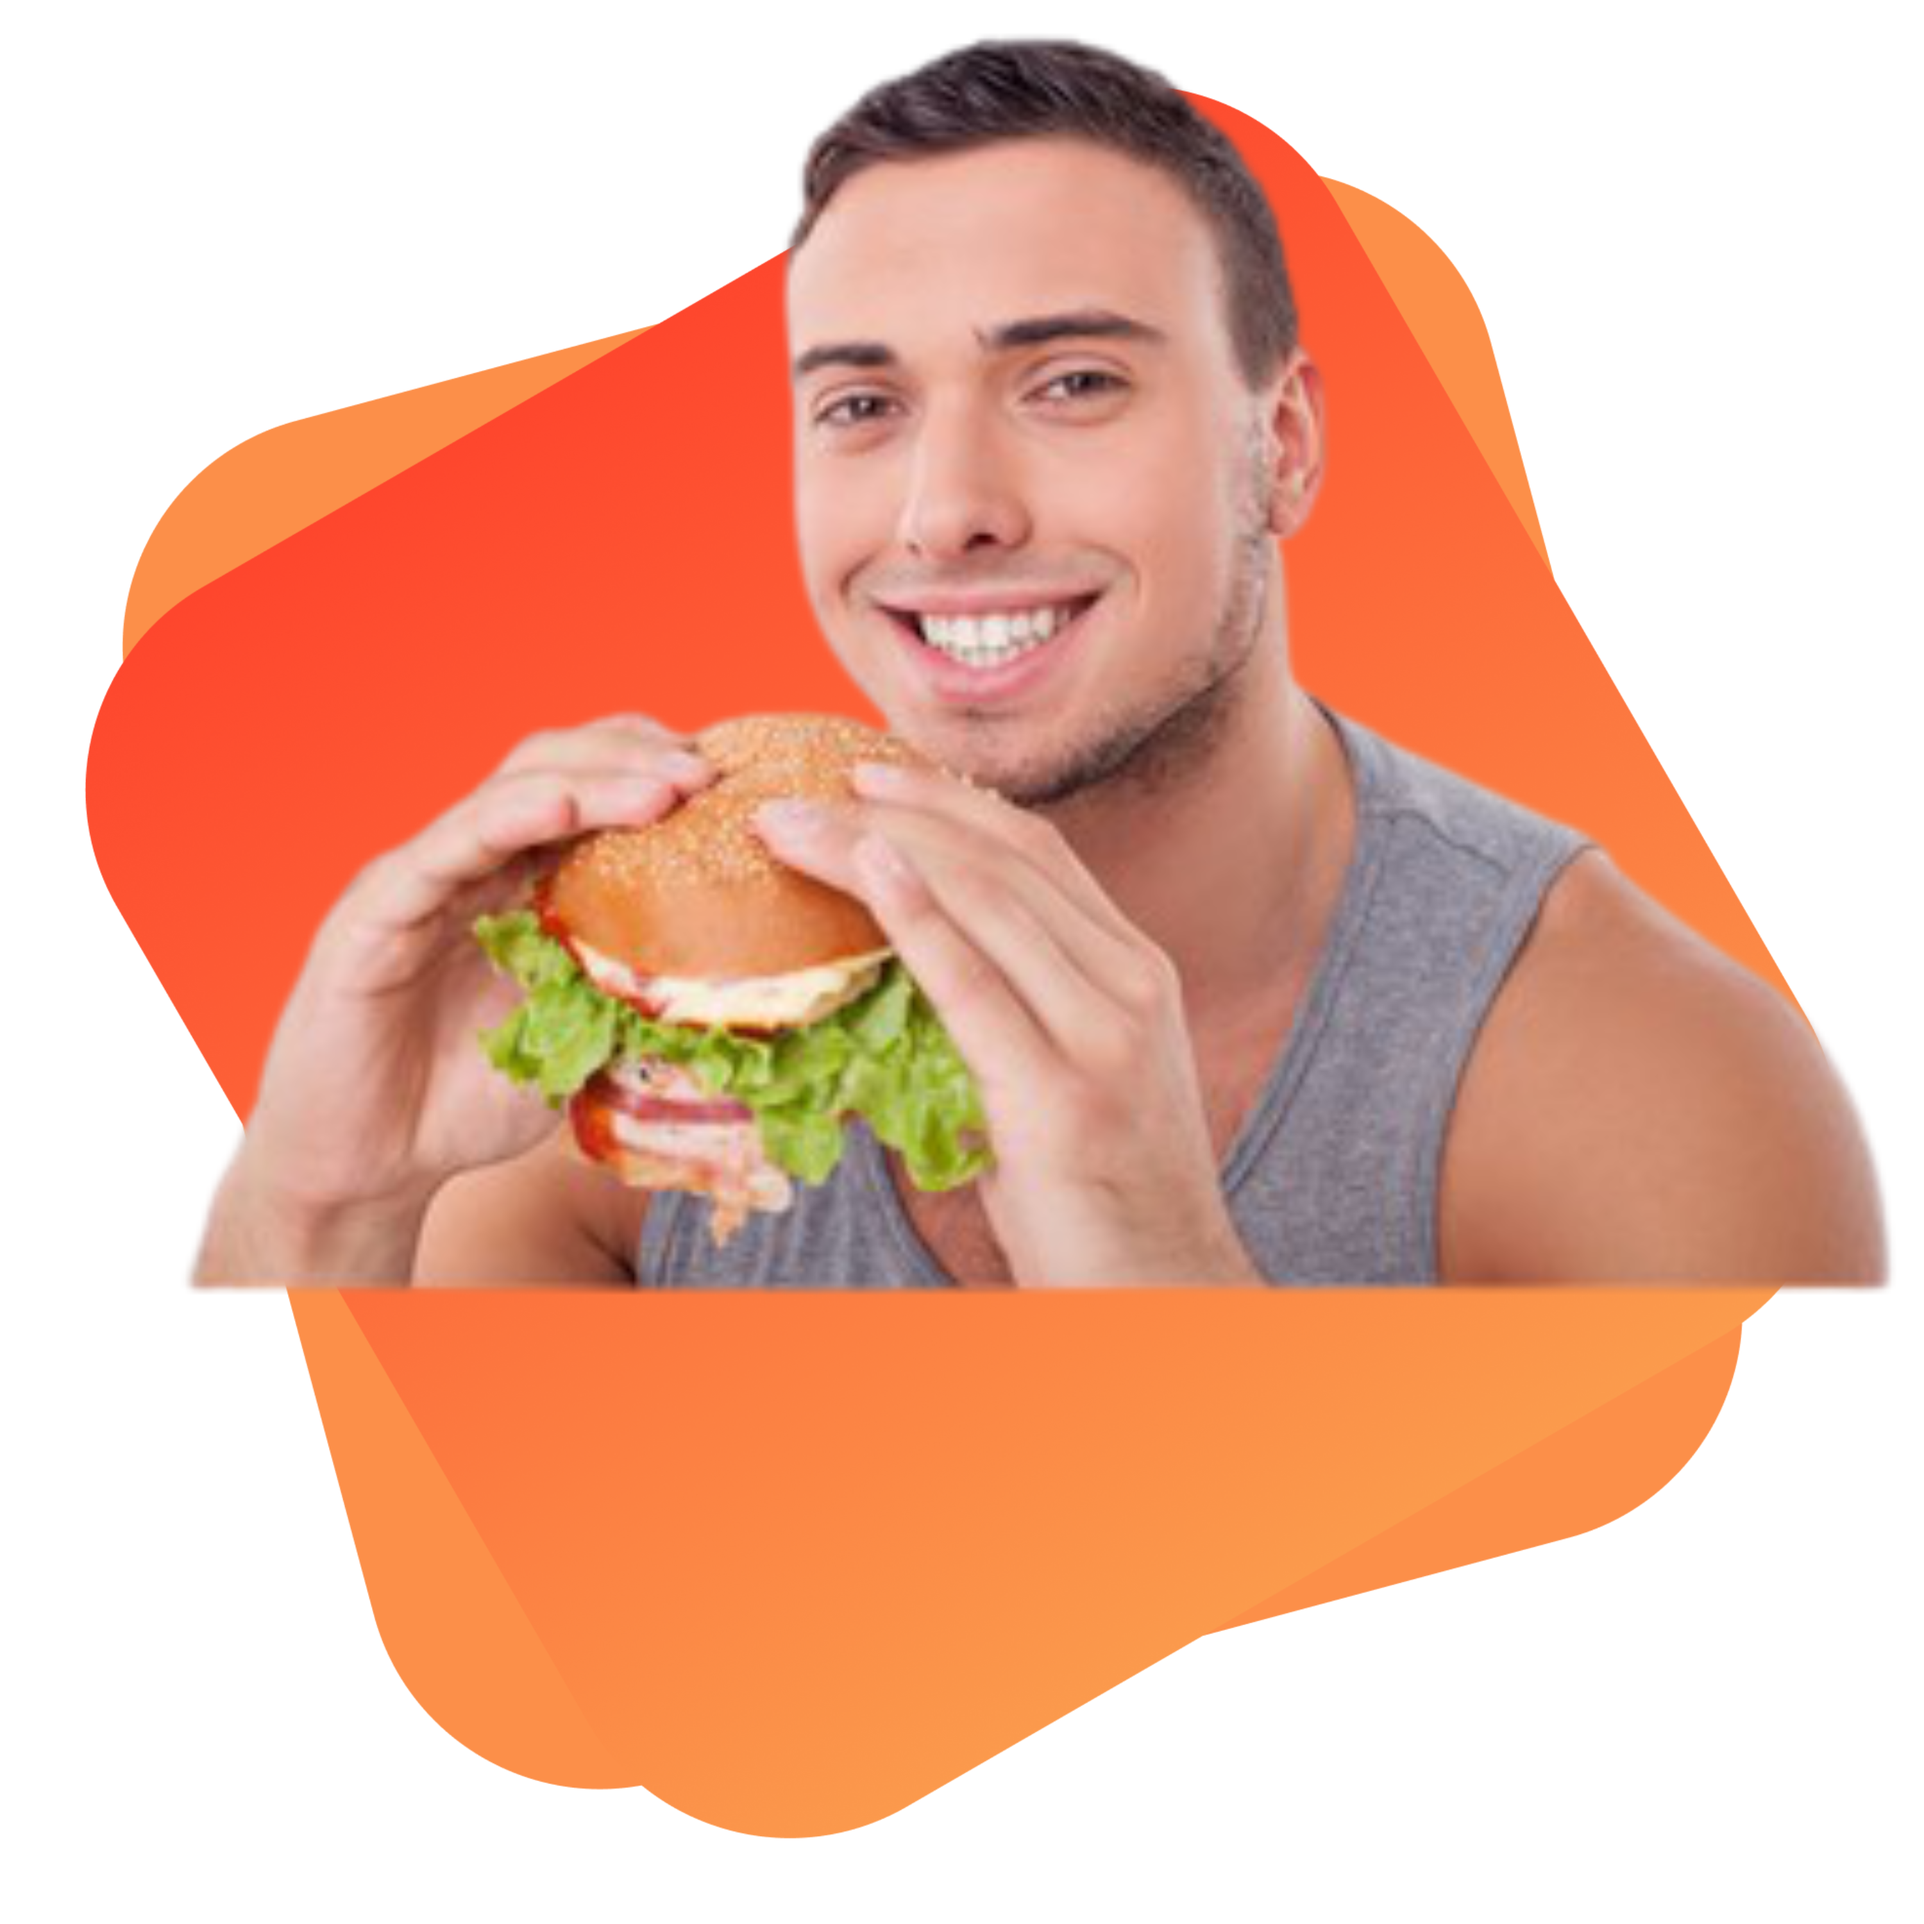
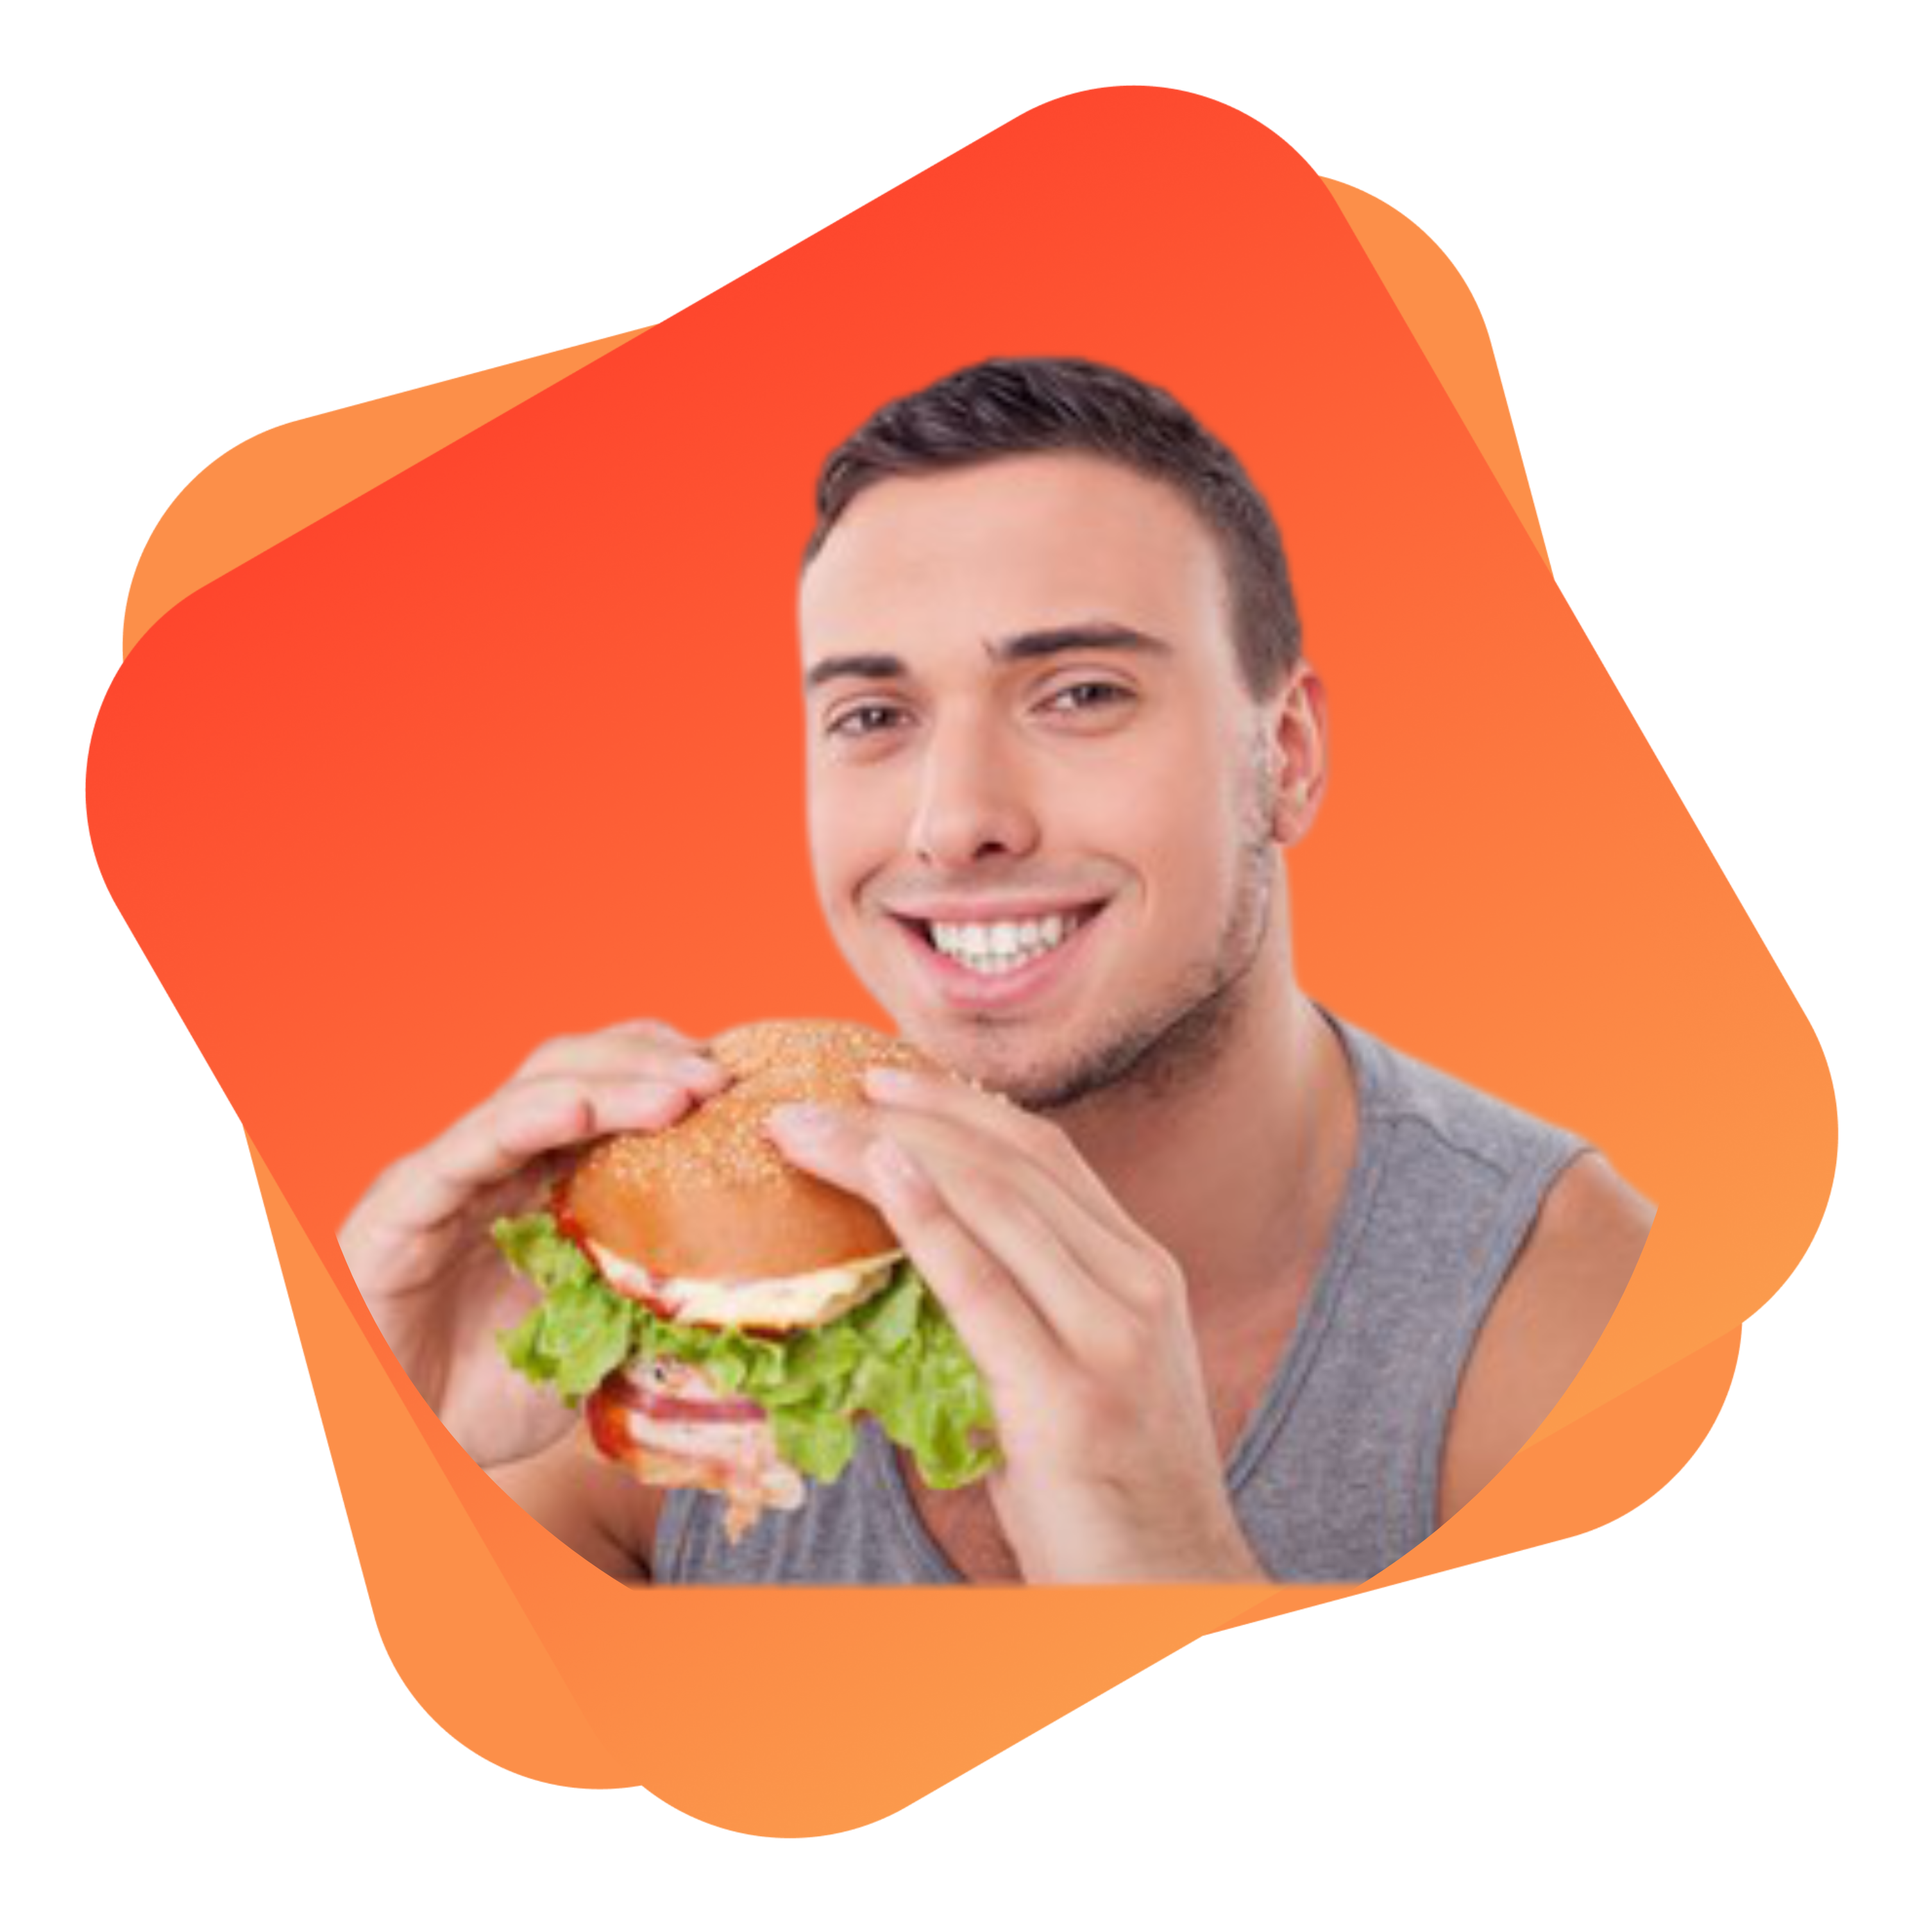
2ndpart-Done

diff --git a/index.html b/index.html
@@ -27,9 +27,26 @@
             <img src="images/male/Untitled design (8).png" alt="">
         </div>
     </section>
-    <section>
-
+    <section class="middle-banner first-banner">
+        <div class="first-part">
+            <img src="images/male/pic.png" alt="">
+        </div>
+        <div class="first-part">
+            <h1>About Me</h1>
+            <h3>A healthy eating plan: Emphasizes vegetables, fruits, whole grains, and fat-free or low-fat dairy
+                products. Includes lean meats, poultry, fish, beans, eggs, and nuts. Limits saturated and trans fats,
+                sodium, and added sugars.</h3>
+            <a class="link-button" target="_blank" href="https://www.linkedin.com/in/arindom-kundu-402277184/">Contact
+                Me</a>
+        </div>
     </section>
+    <section>
+        <div>
+            <h1>My Recipies</h1>
+
+        </div>
+    </section>
+
 </body>
 
 </html>

diff --git a/style.css b/style.css
@@ -38,3 +38,8 @@ body {
     background-image: url(images/shapes/Frame\ 57.jpg);
     background-repeat: no-repeat;
 }
+
+.middle-banner {
+    background-image: url(images/shapes/Frame\ 58.jpg);
+    background-repeat: no-repeat;
+}
